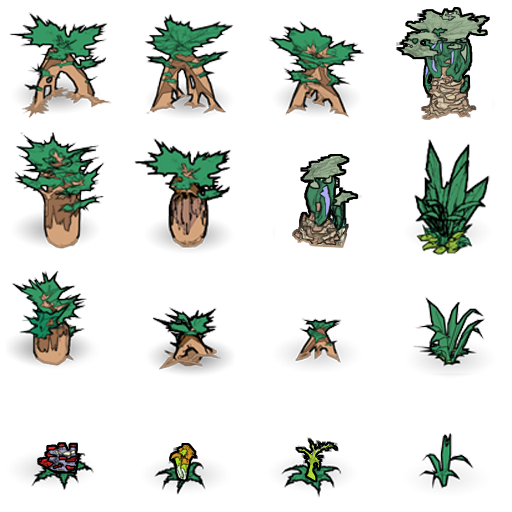
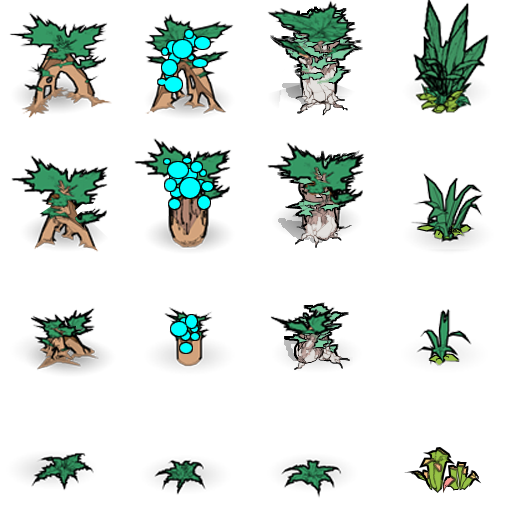
Various new pieces of art, including flora and the enforcer bloc.

diff --git a/src/stratos/start/DebugPlacing.java b/src/stratos/start/DebugPlacing.java
@@ -151,6 +151,8 @@ public class DebugPlacing extends Scenario {
   
   private void configRoadsTest(Stage world, Base base, BaseUI UI) {
     
+    Flora.populateFlora(world);
+    
     final Venue hatch = new ServiceHatch(base);
     Placement.establishVenue(hatch, world.tileAt(4, 4), true, world);
     
@@ -161,7 +163,7 @@ public class DebugPlacing extends Scenario {
     
     //  TODO:  Problem- venue-staffing automatically removes any actors that
     //  belong to foreign bases.  You need some other way for the Roaches to
-    //  hide.
+    //  hide- or just exit the map?
     
     UI.selection.pushSelection(hatch);
     /*

diff --git a/src/stratos/game/plans/Foraging.java b/src/stratos/game/plans/Foraging.java
@@ -18,6 +18,8 @@ import static stratos.game.economic.Economy.*;
 //  TODO:  Consider merging this with forestry (or maybe merging forest-planting
 //  with farming, and forest-cutting/sampling with this.)
 
+//  TODO:  Adapt this to animals (see isBrowser() below.)
+
 public class Foraging extends Plan {
   
   
@@ -105,7 +107,8 @@ public class Foraging extends Plan {
   }
   
   
-  //  TODO:  Make this an internal type.
+  //  TODO:  Make this an internal type.  And allow animals to just consume
+  //  what they gather immediately.
   private boolean isBrowsing() {
     return actor.species().animal();
   }

diff --git a/src/stratos/game/wild/Habitat.java b/src/stratos/game/wild/Habitat.java
@@ -21,11 +21,11 @@ public class Habitat {
     TERRAIN_PATH = "media/Terrain/";
   final public static CutoutModel
     DESERT_FLORA_MODELS[][] = CutoutModel.fromImageGrid(
-      Habitat.class, TERRAIN_PATH+"old_flora_resize.png",
+      Habitat.class, TERRAIN_PATH+"old_flora_touchup.png",
       4, 4, 1.9f, 2
     ),
     FOREST_FLORA_MODELS[][] = CutoutModel.fromImageGrid(
-      Habitat.class, TERRAIN_PATH+"old_flora_resize.png",
+      Habitat.class, TERRAIN_PATH+"old_flora_touchup.png",
       4, 4, 1.9f, 2
     ),
     WASTES_FLORA_MODELS[][] = CutoutModel.fromImageGrid(
